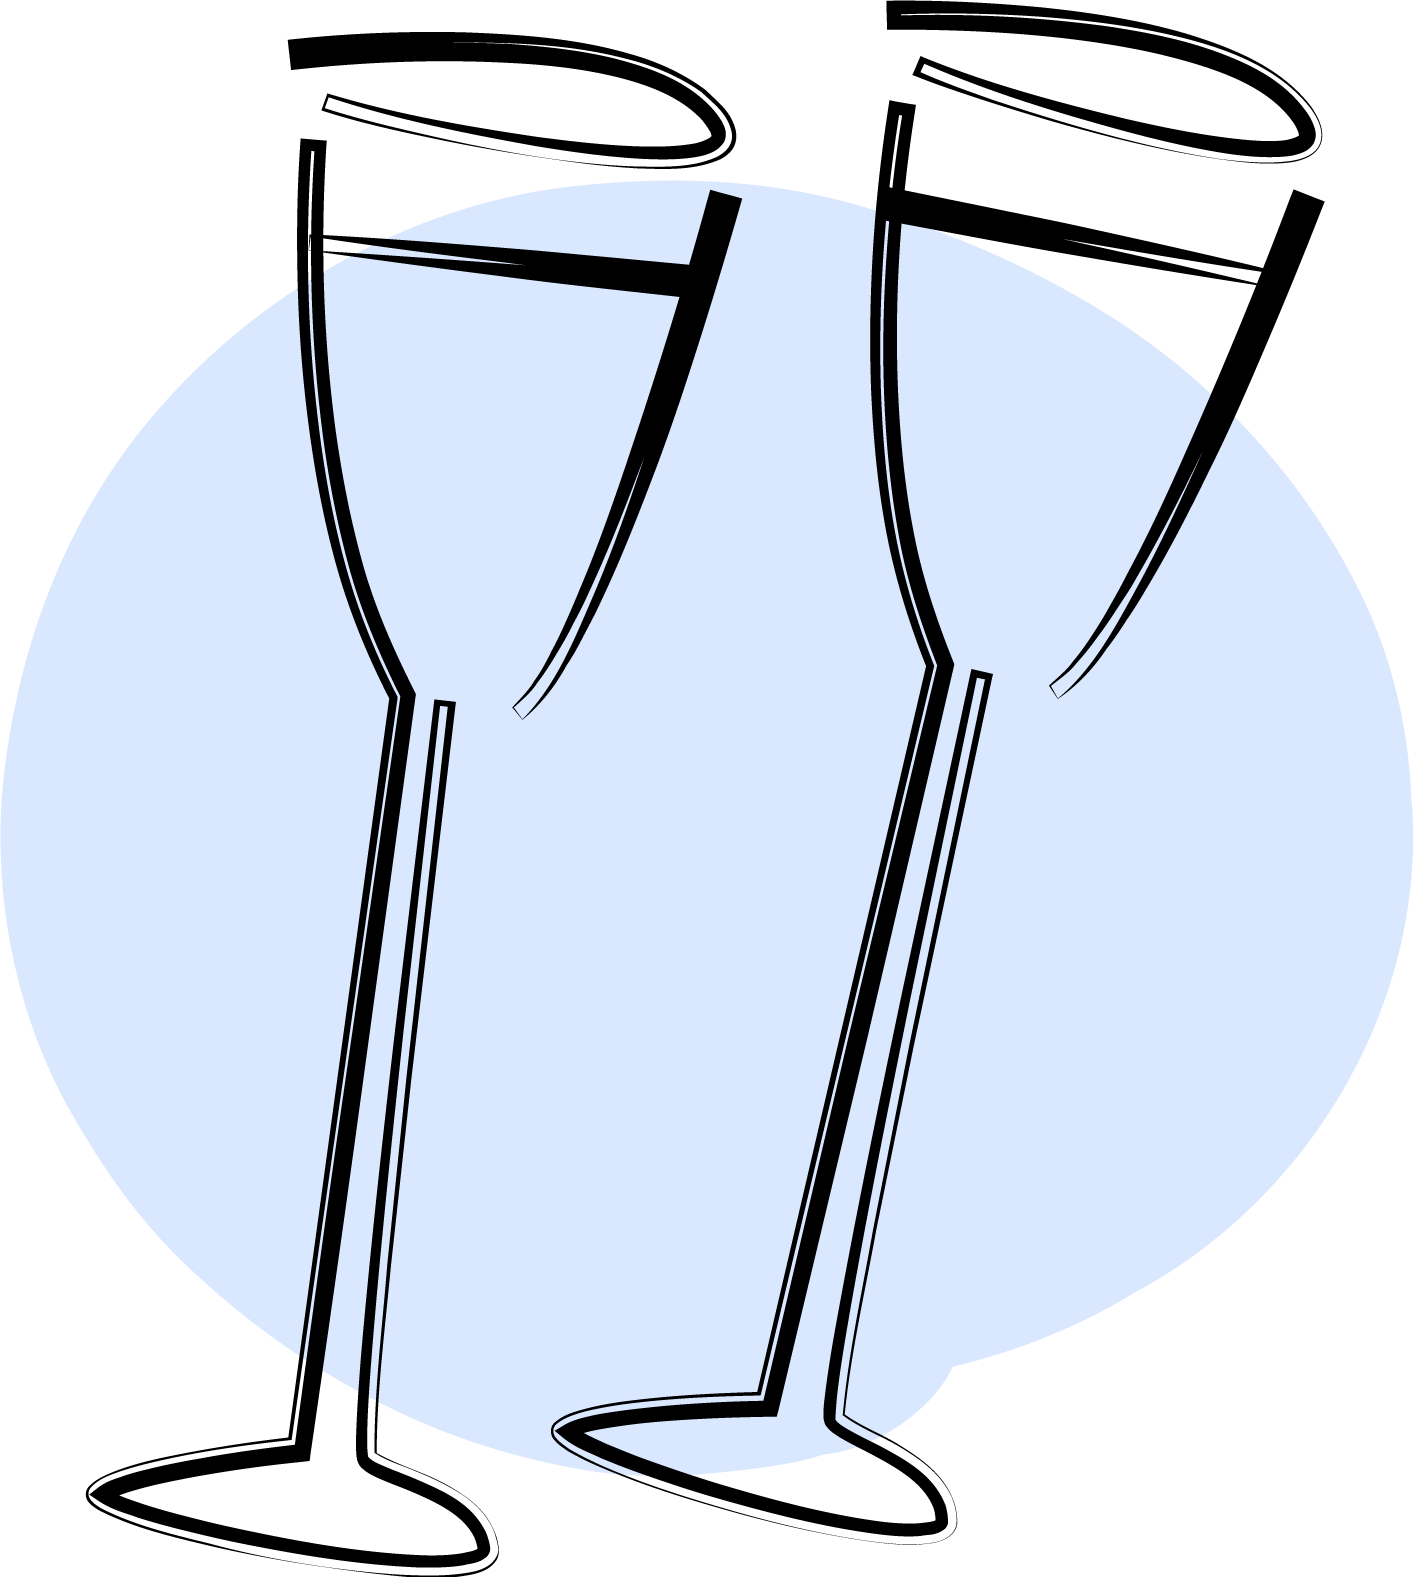
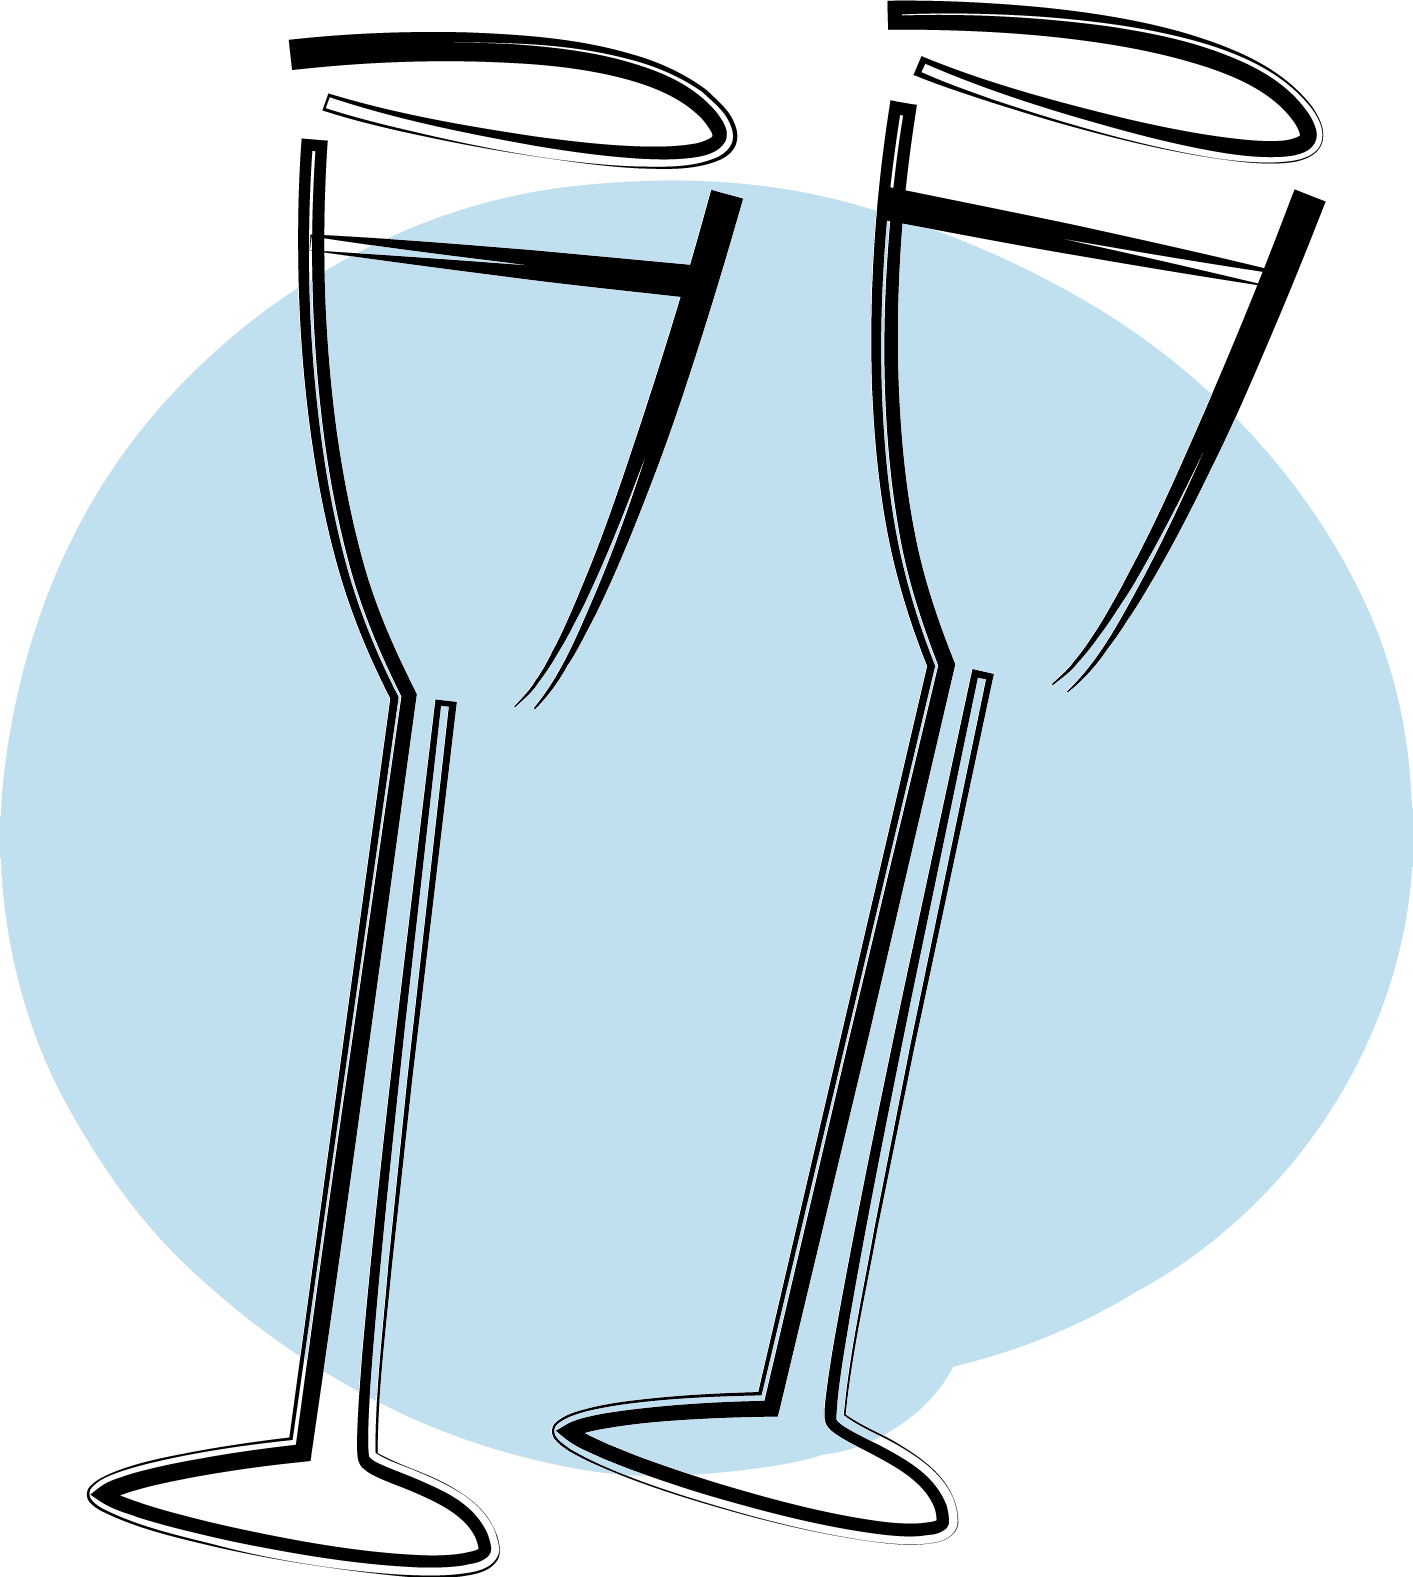
feat: modify main color

diff --git a/tailwind.config.js b/tailwind.config.js
@@ -7,7 +7,8 @@ module.exports = {
   theme: {
     extend: {
       colors: {
-        myBlue: {
+        /* old color */
+        /*    myBlue: {
           bgLight: "#eef3fe",
           bgDark: "#dee8fd",
           300: "#bdd1fb",
@@ -17,6 +18,11 @@ module.exports = {
           700: "#8a9ec8",
           800: "#798aaf",
           900: "#677696",
+        }, */
+        myBlue: {
+          bgLight: "#e6f2f8",
+          bgDark: "#d3e9f3",
+          main: "#c1e0ef",
         },
       },
       screens: {
